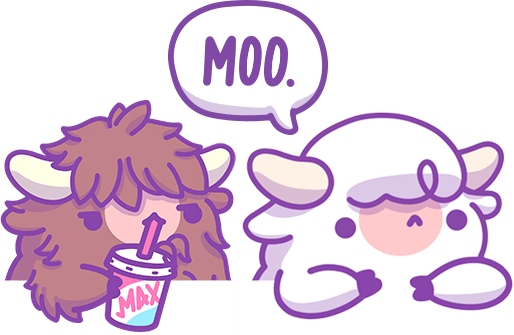
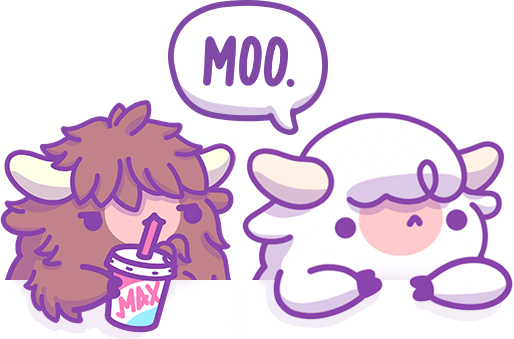
More design feedback

diff --git a/components/Icons.tsx b/components/Icons.tsx
@@ -2,31 +2,32 @@ import React from 'react';
 
 export type IconProps = {
   className?: string;
+  fill?: string;
 };
 
-export const OpenSeaIcon = ({ className }: IconProps) => (
+export const OpenSeaIcon = ({ className, fill = '#ffffff' }: IconProps) => (
   <svg
     width="90"
     height="90"
     className={className}
     viewBox="0 0 90 90"
-    fill="#ffffff"
+    fill={fill}
     xmlns="http://www.w3.org/2000/svg"
   >
     <path
       d="M45 0C20.151 0 0 20.151 0 45C0 69.849 20.151 90 45 90C69.849 90 90 69.849 90 45C90 20.151 69.858 0 45 0ZM22.203 46.512L22.392 46.206L34.101 27.891C34.272 27.63 34.677 27.657 34.803 27.945C36.756 32.328 38.448 37.782 37.656 41.175C37.323 42.57 36.396 44.46 35.352 46.206C35.217 46.458 35.073 46.71 34.911 46.953C34.839 47.061 34.713 47.124 34.578 47.124H22.545C22.221 47.124 22.032 46.773 22.203 46.512ZM74.376 52.812C74.376 52.983 74.277 53.127 74.133 53.19C73.224 53.577 70.119 55.008 68.832 56.799C65.538 61.38 63.027 67.932 57.402 67.932H33.948C25.632 67.932 18.9 61.173 18.9 52.83V52.56C18.9 52.344 19.08 52.164 19.305 52.164H32.373C32.634 52.164 32.823 52.398 32.805 52.659C32.706 53.505 32.868 54.378 33.273 55.17C34.047 56.745 35.658 57.726 37.395 57.726H43.866V52.677H37.467C37.143 52.677 36.945 52.299 37.134 52.029C37.206 51.921 37.278 51.813 37.368 51.687C37.971 50.823 38.835 49.491 39.699 47.97C40.284 46.944 40.851 45.846 41.31 44.748C41.4 44.55 41.472 44.343 41.553 44.145C41.679 43.794 41.805 43.461 41.895 43.137C41.985 42.858 42.066 42.57 42.138 42.3C42.354 41.364 42.444 40.374 42.444 39.348C42.444 38.943 42.426 38.52 42.39 38.124C42.372 37.683 42.318 37.242 42.264 36.801C42.228 36.414 42.156 36.027 42.084 35.631C41.985 35.046 41.859 34.461 41.715 33.876L41.661 33.651C41.553 33.246 41.454 32.868 41.328 32.463C40.959 31.203 40.545 29.97 40.095 28.818C39.933 28.359 39.753 27.918 39.564 27.486C39.294 26.82 39.015 26.217 38.763 25.65C38.628 25.389 38.52 25.155 38.412 24.912C38.286 24.642 38.16 24.372 38.025 24.111C37.935 23.913 37.827 23.724 37.755 23.544L36.963 22.086C36.855 21.888 37.035 21.645 37.251 21.708L42.201 23.049H42.219C42.228 23.049 42.228 23.049 42.237 23.049L42.885 23.238L43.605 23.436L43.866 23.508V20.574C43.866 19.152 45 18 46.413 18C47.115 18 47.754 18.288 48.204 18.756C48.663 19.224 48.951 19.863 48.951 20.574V24.939L49.482 25.083C49.518 25.101 49.563 25.119 49.599 25.146C49.725 25.236 49.914 25.38 50.148 25.56C50.337 25.704 50.535 25.884 50.769 26.073C51.246 26.46 51.822 26.955 52.443 27.522C52.605 27.666 52.767 27.81 52.92 27.963C53.721 28.71 54.621 29.583 55.485 30.555C55.728 30.834 55.962 31.104 56.205 31.401C56.439 31.698 56.7 31.986 56.916 32.274C57.213 32.661 57.519 33.066 57.798 33.489C57.924 33.687 58.077 33.894 58.194 34.092C58.554 34.623 58.86 35.172 59.157 35.721C59.283 35.973 59.409 36.252 59.517 36.522C59.85 37.26 60.111 38.007 60.273 38.763C60.327 38.925 60.363 39.096 60.381 39.258V39.294C60.435 39.51 60.453 39.744 60.471 39.987C60.543 40.752 60.507 41.526 60.345 42.3C60.273 42.624 60.183 42.93 60.075 43.263C59.958 43.578 59.85 43.902 59.706 44.217C59.427 44.856 59.103 45.504 58.716 46.098C58.59 46.323 58.437 46.557 58.293 46.782C58.131 47.016 57.96 47.241 57.816 47.457C57.609 47.736 57.393 48.024 57.168 48.285C56.97 48.555 56.772 48.825 56.547 49.068C56.241 49.437 55.944 49.779 55.629 50.112C55.449 50.328 55.251 50.553 55.044 50.751C54.846 50.976 54.639 51.174 54.459 51.354C54.144 51.669 53.892 51.903 53.676 52.11L53.163 52.569C53.091 52.641 52.992 52.677 52.893 52.677H48.951V57.726H53.91C55.017 57.726 56.07 57.339 56.925 56.61C57.213 56.358 58.482 55.26 59.985 53.604C60.039 53.541 60.102 53.505 60.174 53.487L73.863 49.527C74.124 49.455 74.376 49.644 74.376 49.914V52.812V52.812Z"
-      fill="#ffffff"
+      fill={fill}
     />
   </svg>
 );
 
-export const TwitterIcon = ({ className }: IconProps) => (
+export const TwitterIcon = ({ className, fill = '#8c49ad' }: IconProps) => (
   <svg
     version="1.1"
     className={className}
     xmlns="http://www.w3.org/2000/svg"
     viewBox="0 0 248 204"
-    fill="#8c49ad"
+    fill={fill}
   >
     <path
       d="M221.95,51.29c0.15,2.17,0.15,4.34,0.15,6.53c0,66.73-50.8,143.69-143.69,143.69v-0.04
@@ -39,9 +40,9 @@ export const TwitterIcon = ({ className }: IconProps) => (
   </svg>
 );
 
-export const DiscordIcon = ({ className }: IconProps) => (
+export const DiscordIcon = ({ className, fill = '#ffffff' }: IconProps) => (
   <svg xmlns="http://www.w3.org/2000/svg" className={className} viewBox="0 0 127.14 96.36">
-    <g fill="white">
+    <g fill={fill}>
       <path d="M107.7 8.07A105.15 105.15 0 0 0 81.47 0a72.06 72.06 0 0 0-3.36 6.83 97.68 97.68 0 0 0-29.11 0A72.37 72.37 0 0 0 45.64 0a105.89 105.89 0 0 0-26.25 8.09C2.79 32.65-1.71 56.6.54 80.21a105.73 105.73 0 0 0 32.17 16.15 77.7 77.7 0 0 0 6.89-11.11 68.42 68.42 0 0 1-10.85-5.18c.91-.66 1.8-1.34 2.66-2a75.57 75.57 0 0 0 64.32 0c.87.71 1.76 1.39 2.66 2a68.68 68.68 0 0 1-10.87 5.19 77 77 0 0 0 6.89 11.1 105.25 105.25 0 0 0 32.19-16.14c2.64-27.38-4.51-51.11-18.9-72.15ZM42.45 65.69C36.18 65.69 31 60 31 53s5-12.74 11.43-12.74S54 46 53.89 53s-5.05 12.69-11.44 12.69Zm42.24 0C78.41 65.69 73.25 60 73.25 53s5-12.74 11.44-12.74S96.23 46 96.12 53s-5.04 12.69-11.43 12.69Z" />
     </g>
   </svg>

diff --git a/pages/index.tsx b/pages/index.tsx
@@ -28,7 +28,7 @@ const Home: NextPage = () => {
         <section className="relative w-full animate-section bg-banner-repeat bg-contain bg-bottom bg-repeat-x">
           <div className="relative mx-auto h-[60vh] max-h-[1000px] max-w-screen-screen md:mt-16 md:h-auto">
             <img
-              src="banner.png"
+              src="banner.jpg"
               className="h-full max-h-[1000px] w-full animate-section object-cover object-bottom md:object-contain"
               alt="Café Banner"
             />
@@ -44,9 +44,9 @@ const Home: NextPage = () => {
             className="absolute bottom-0 h-full w-full object-cover object-bottom md:object-contain md:object-left"
           />
         </section>
-        <section className="bg-pink px-10 py-4 sm:px-16 2xl:px-0">
+        <section className="bg-pink px-10 pt-10 pb-4 sm:px-16 lg:pt-4 2xl:px-0">
           <div className="mx-auto flex max-w-screen-2xl flex-col-reverse xl:flex-row xl:gap-16">
-            <div className="z-20 mx-auto w-72 shrink-0 translate-y-[46.5px] sm:w-[28rem] sm:translate-y-[63.5px]">
+            <div className="z-20 mx-auto w-72 shrink-0 translate-y-[46.5px] sm:w-[28rem] sm:translate-y-[67px]">
               <Image src={mooPeek} layout="responsive" alt="Moo Peek" />
             </div>
             <div className="flex flex-col justify-center">
@@ -55,7 +55,7 @@ const Home: NextPage = () => {
                 Welcome to the characters of the Good Morning Café!
               </h1>
             </div>
-            <div className="hidden w-48 shrink-0 translate-y-[100px] xl:block">
+            <div className="hidden w-48 shrink-0 translate-y-[130px] xl:block">
               <Image src={randy} layout="responsive" alt="Randy" />
             </div>
           </div>
@@ -184,7 +184,7 @@ const Home: NextPage = () => {
           </div>
         </AnimatedPageSection>
       </main>
-      <footer className="relative flex w-full items-center justify-center overflow-hidden bg-gray-100 pb-12 pt-4">
+      <footer className="relative flex w-full items-center justify-center overflow-hidden bg-sky pb-12 pt-4">
         <div className="mx-auto flex max-w-screen-2xl flex-col items-center px-10 sm:flex-row sm:gap-8">
           <div className="flex flex-grow flex-col justify-end">
             <div className="flex gap-4">
@@ -192,7 +192,7 @@ const Home: NextPage = () => {
               <AnchorLink href="https://twitter.com/gmcafeNFT">Twitter</AnchorLink>
               <AnchorLink href="https://opensea.io/collection/goodmorningcafe">OpenSea</AnchorLink>
             </div>
-            <h2 className="mt-2 text-center font-gmcafe text-6xl uppercase leading-none text-purple sm:mb-6 sm:mt-0 sm:text-left sm:text-7xl xl:mb-0 xl:text-9xl 2xl:text-10xl">
+            <h2 className="text-border-white mt-2 text-center font-gmcafe text-6xl uppercase leading-none text-purple sm:mb-6 sm:mt-0 sm:text-left sm:text-7xl xl:mb-0 xl:text-9xl 2xl:text-10xl">
               Join the Herd
             </h2>
           </div>
@@ -201,7 +201,7 @@ const Home: NextPage = () => {
           </div>
         </div>
         <div className="absolute bottom-0 flex w-full flex-col justify-end">
-          <div className="h-24 w-full bg-[url('/fence.png')] bg-[length:300px_auto] xl:bg-[length:460px_auto] bg-bottom bg-repeat-x" />
+          <div className="h-24 w-full bg-[url('/fence.png')] bg-[length:300px_auto] bg-bottom bg-repeat-x xl:bg-[length:460px_auto]" />
           <div className="flex h-10 items-end justify-center bg-grass pb-2">
             <p className="text-xs text-purple opacity-30">© 2022 Colefax Corp.</p>
           </div>

diff --git a/components/Navigation.tsx b/components/Navigation.tsx
@@ -1,10 +1,9 @@
 import { MenuIcon, XIcon } from '@heroicons/react/solid';
-import mobileNavFooter from '../public/mobile-nav-footer.png';
-import Image from 'next/image';
 import { useRouter } from 'next/router';
 import NavigationItem from './NavigationItem';
 import { Dispatch, SetStateAction } from 'react';
 import Link from 'next/link';
+import { DiscordIcon, OpenSeaIcon, TwitterIcon } from './Icons';
 
 type NavigationProps = {
   open: boolean;
@@ -41,14 +40,14 @@ const Navigation = ({ open, setOpen }: NavigationProps) => {
       <div className="flex items-center">
         <button onClick={() => setOpen(!open)}>
           {open ? (
-            <XIcon className="m-1 h-8 w-8 text-white"></XIcon>
+            <XIcon className="m-1 h-10 w-10 text-white"></XIcon>
           ) : (
-            <MenuIcon className="m-1 h-8 w-8 text-white" />
+            <MenuIcon className="m-1 h-10 w-10 text-white" />
           )}
         </button>
         {open && (
-          <div className="mobile-nav-height absolute top-0 left-0 z-20 mt-16 flex w-screen origin-top-right flex-col overflow-y-hidden bg-sky focus:outline-none">
-            <div className="mb-4 h-24 shrink-0">
+          <div className="mobile-nav-height absolute top-0 left-0 z-20 mt-16 flex w-screen origin-top-right flex-col gap-4 overflow-y-hidden bg-[url('/mobile_nav.jpg')] bg-cover bg-bottom bg-no-repeat focus:outline-none">
+            <div className="h-24 shrink-0">
               <div className="h-full flex-grow bg-[url('/svgs/awning.svg')] bg-repeat-x" />
             </div>
             <NavigationItem href={isHome ? '#home' : '/#home'} type="mobile" close={close}>
@@ -69,8 +68,25 @@ const Navigation = ({ open, setOpen }: NavigationProps) => {
             <NavigationItem href="https://banners.gmcafe.io" type="mobile" close={close}>
               Banners
             </NavigationItem>
-            <div className="mt-auto">
-              <Image src={mobileNavFooter} layout="responsive" alt="Mobile Navigation Footer" />
+            <div className="flex justify-center space-x-3">
+              <a
+                className="flex h-10 w-10 items-center rounded-full bg-white p-1.5"
+                href="https://discord.gg/gmcafe"
+              >
+                <DiscordIcon fill="#8946ab" />
+              </a>
+              <a
+                className="flex h-10 w-10 items-center rounded-full bg-white p-1.5"
+                href="https://discord.gg/gmcafe"
+              >
+                <TwitterIcon fill="#8946ab" />
+              </a>
+              <a
+                className="flex h-10 w-10 items-center rounded-full bg-white p-1.5"
+                href="https://discord.gg/gmcafe"
+              >
+                <OpenSeaIcon fill="#8946ab" />
+              </a>
             </div>
           </div>
         )}

diff --git a/tailwind.config.js b/tailwind.config.js
@@ -19,7 +19,7 @@ module.exports = {
         grass: '#acfad3',
         twitter: '#1d9bf0',
         opensea: '#2081E2',
-        sky: '#aaf1ff',
+        sky: '#dcf9ff',
       },
       screens: {
         screen: '2000px',
@@ -50,6 +50,9 @@ module.exports = {
       },
       fontSize: {
         '10xl': '11.5rem',
+      },
+      cursor: {
+        gmc: "url('../public/cursor.png'), default",
       },
     },
     fontFamily: {

diff --git a/components/NavigationItem.tsx b/components/NavigationItem.tsx
@@ -28,7 +28,7 @@ const NavigationItem = (
   const className = classNames(
     'font-gmcafe uppercase',
     { 'text-white text-2xl transition duration-500 hover:text-pink-light': type === 'desktop' },
-    { 'p-3 text-3xl text-center text-purple opacity-30': type === 'mobile' },
+    { 'text-5xl text-center text-purple text-border-white': type === 'mobile' },
     { 'cursor-pointer': isAnchor }
   );
 

diff --git a/styles/globals.css b/styles/globals.css
@@ -25,6 +25,10 @@
   text-shadow: 0 4px 2px #e1a4cc;
 }
 
+.text-border-white {
+  text-shadow: 6px 0 0 #fff, -6px 0 0 #fff, 0 6px 0 #fff, 0 -6px 0 #fff, 4px 4px #fff, -4px -4px 0 #fff, 4px -4px 0 #fff, -4px 4px 0 #fff;
+}
+
 @media (min-width: 768px) {
   .clip-home-section {
     clip-path: polygon(0 0, 100% 0%, 90% 100%, 0% 100%);

diff --git a/pages/_document.tsx b/pages/_document.tsx
@@ -21,7 +21,7 @@ export default function Document() {
 
         <script defer data-domain="gmcafe.io" src="/js/script.js"></script>
       </Head>
-      <body className="font-sans">
+      <body className="cursor-gmc font-sans">
         <Main />
         <NextScript />
       </body>
